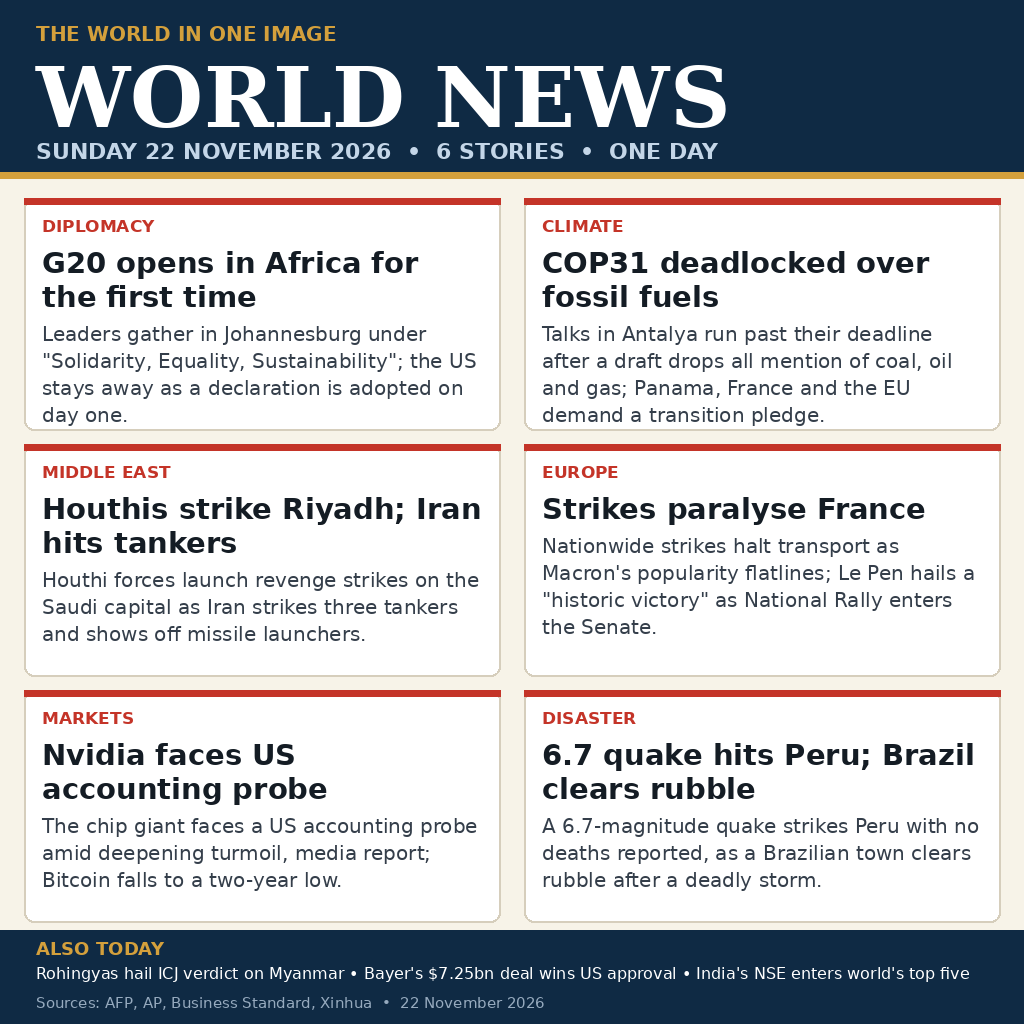
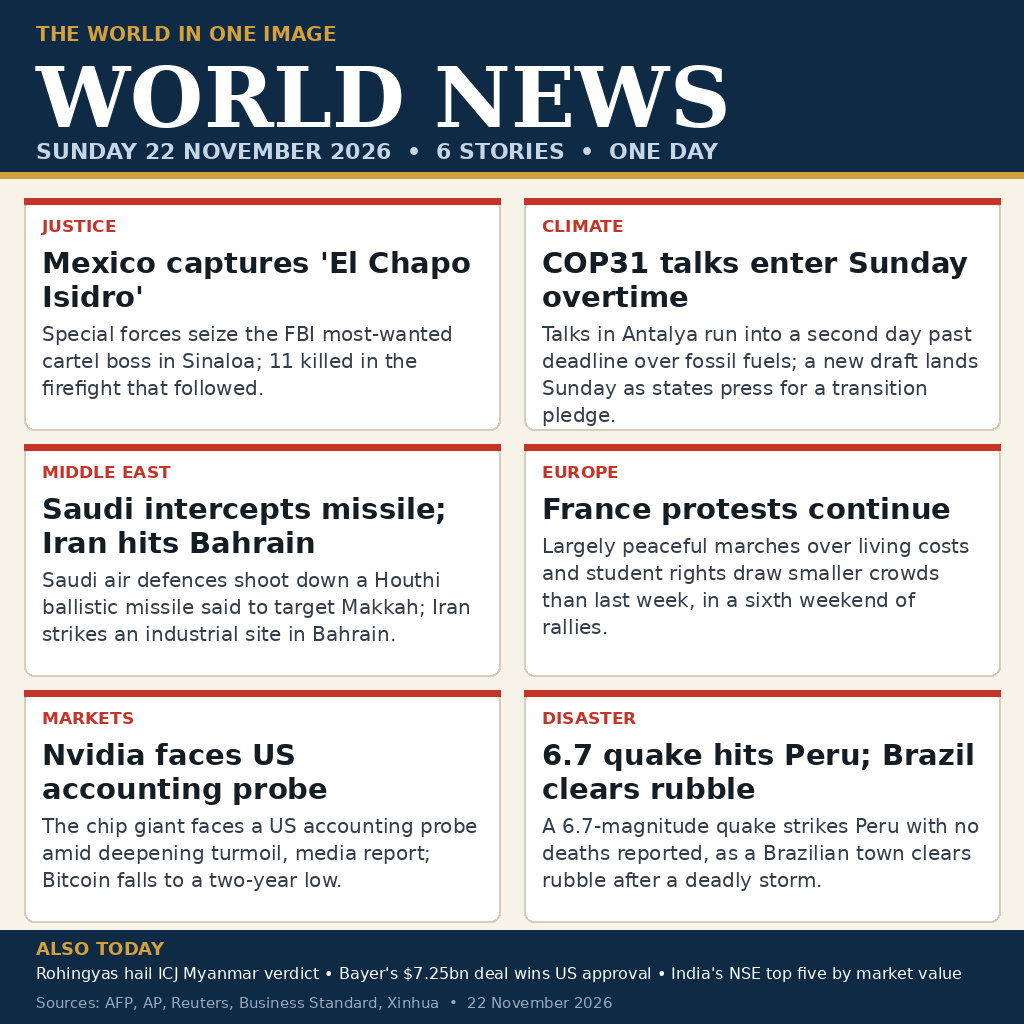
Fix GPT audit P0s: replace G20 card with Mexico cartel capture, correct France/Middle East wording, stdlib-only main.py entrypoint

diff --git a/main.py b/main.py
@@ -1,150 +1,23 @@
-"""news-image-20261122: draw one 1024x1024 PNG summing up world news of
-Sunday 22 November 2026, to /output/entry.png.
+"""news-image-20261122 entrypoint: copy the prebuilt entry.png to /output.
 
-Deterministic: no network, no randomness, no clock, no environment input.
-The stories are embedded below as constants; the program only draws.
-Run: python3 main.py  (writes /output/entry.png, creating /output if needed)
-Python 3.13 compatible; needs Pillow and DejaVu fonts (system fonts).
+Stdlib only: the server runs this program as Python 3.13 with no
+third-party packages installed, so it must not import Pillow or anything
+else outside the standard library. The image itself is built by
+build_entry.py (Pillow + DejaVu, deterministic) and shipped in the
+repository as entry.png; this entrypoint only copies that file to the
+output directory. Running it twice writes byte-identical output.
 """
 
 import os
-from PIL import Image, ImageDraw, ImageFont
-
-W, H = 1024, 1024
-NAVY = (15, 42, 68)
-NAVY_LIGHT = (27, 68, 102)
-PAPER = (247, 243, 232)
-CARD = (255, 255, 255)
-INK = (20, 28, 36)
-MUTED = (90, 100, 112)
-RULE = (196, 52, 40)
-GOLD = (212, 160, 60)
-
-FONT_DIR = "/usr/share/fonts/truetype/dejavu"
-FALLBACK_DIR = "/usr/share/fonts"
-
-
-def font(name, size):
-    for base in (FONT_DIR, FALLBACK_DIR):
-        path = os.path.join(base, name) if base == FONT_DIR else name
-        if base == FONT_DIR:
-            path = os.path.join(FONT_DIR, name)
-            if os.path.exists(path):
-                return ImageFont.truetype(path, size)
-        else:
-            try:
-                return ImageFont.truetype(name, size)
-            except OSError:
-                pass
-    return ImageFont.load_default(size=size)
-
-
-SERIF_B = lambda s: font("DejaVuSerif-Bold.ttf", s)
-SANS_B = lambda s: font("DejaVuSans-Bold.ttf", s)
-SANS = lambda s: font("DejaVuSans.ttf", s)
-
-STORIES = [
-    ("DIPLOMACY", "G20 opens in Africa for the first time",
-     "Leaders gather in Johannesburg under \"Solidarity, Equality, "
-     "Sustainability\"; the US stays away as a declaration is adopted "
-     "on day one."),
-    ("CLIMATE", "COP31 deadlocked over fossil fuels",
-     "Talks in Antalya run past their deadline after a draft drops all "
-     "mention of coal, oil and gas; Panama, France and the EU demand "
-     "a transition pledge."),
-    ("MIDDLE EAST", "Houthis strike Riyadh; Iran hits tankers",
-     "Houthi forces launch revenge strikes on the Saudi capital as Iran "
-     "strikes three tankers and shows off missile launchers."),
-    ("EUROPE", "Strikes paralyse France",
-     "Nationwide strikes halt transport as Macron's popularity flatlines; "
-     "Le Pen hails a \"historic victory\" as National Rally enters "
-     "the Senate."),
-    ("MARKETS", "Nvidia faces US accounting probe",
-     "The chip giant faces a US accounting probe amid deepening turmoil, "
-     "media report; Bitcoin falls to a two-year low."),
-    ("DISASTER", "6.7 quake hits Peru; Brazil clears rubble",
-     "A 6.7-magnitude quake strikes Peru with no deaths reported, as a "
-     "Brazilian town clears rubble after a deadly storm."),
-]
-
-ALSO = [
-    "Rohingyas hail ICJ verdict on Myanmar",
-    "Bayer's $7.25bn deal wins US approval",
-    "India's NSE enters world's top five",
-]
-
-
-def wrap(draw, text, fnt, width):
-    words = text.split(" ")
-    lines, cur = [], ""
-    for word in words:
-        trial = (cur + " " + word).strip()
-        if draw.textlength(trial, font=fnt) <= width:
-            cur = trial
-        else:
-            if cur:
-                lines.append(cur)
-            cur = word
-    if cur:
-        lines.append(cur)
-    return lines
-
-
-def draw_card(draw, x, y, w, h, tag, headline, body):
-    draw.rounded_rectangle([x, y, x + w, y + h], radius=10, fill=CARD,
-                           outline=(214, 206, 188), width=2)
-    draw.rectangle([x, y, x + w, y + 6], fill=RULE)
-    tag_f = SANS_B(17)
-    draw.text((x + 18, y + 18), tag, font=tag_f, fill=RULE)
-    head_f = SANS_B(29)
-    lines = wrap(draw, headline, head_f, w - 36)
-    ty = y + 48
-    for line in lines[:2]:
-        draw.text((x + 18, ty), line, font=head_f, fill=INK)
-        ty += 34
-    body_f = SANS(20)
-    blines = wrap(draw, body, body_f, w - 36)
-    by = ty + 8
-    for line in blines[:4]:
-        draw.text((x + 18, by), line, font=body_f, fill=(52, 62, 74))
-        by += 27
+import shutil
 
 
 def main():
-    img = Image.new("RGB", (W, H), PAPER)
-    d = ImageDraw.Draw(img)
-
-    # Header
-    d.rectangle([0, 0, W, 172], fill=NAVY)
-    d.rectangle([0, 172, W, 178], fill=GOLD)
-    d.text((36, 22), "THE WORLD IN ONE IMAGE", font=SANS_B(20), fill=GOLD)
-    d.text((36, 48), "WORLD NEWS", font=SERIF_B(84), fill=(255, 255, 255))
-    d.text((36, 138), "SUNDAY 22 NOVEMBER 2026  •  6 STORIES  •  ONE DAY",
-           font=SANS_B(22), fill=(196, 214, 232))
-
-    # Story grid: 2 columns x 3 rows
-    gx, gy = 24, 198
-    cw, ch, gap = 476, 232, 24
-    for i, (tag, head, body) in enumerate(STORIES):
-        cx = gx + (i % 2) * (cw + gap)
-        cy = gy + (i // 2) * (ch + 14)
-        draw_card(d, cx, cy, cw, ch, tag, head, body)
-
-    # Footer (ALSO kept to one short line, never clipped)
-    fy = 198 + 3 * 232 + 2 * 14 + 8  # 930
-    d.rectangle([0, fy, W, H], fill=NAVY)
-    d.text((36, fy + 8), "ALSO TODAY", font=SANS_B(18), fill=GOLD)
-    also_f = SANS(16)
-    also_lines = wrap(d, "  •  ".join(ALSO), also_f, W - 72)
-    assert len(also_lines) == 1, also_lines
-    d.text((36, fy + 34), also_lines[0], font=also_f, fill=(255, 255, 255))
-    d.text((36, fy + 64), "Sources: AFP, AP, Business Standard, Xinhua  •  22 November 2026",
-           font=SANS(15), fill=(150, 170, 190))
-
-    out = "/output/entry.png"
+    here = os.path.dirname(os.path.abspath(__file__))
+    src = os.path.join(here, "entry.png")
     os.makedirs("/output", exist_ok=True)
-    img.save(out, format="PNG", optimize=True)
-    print("wrote " + out)
+    shutil.copyfile(src, "/output/entry.png")
+    print("wrote /output/entry.png")
 
 
 if __name__ == "__main__":

diff --git a/build_entry.py b/build_entry.py
@@ -1,0 +1,153 @@
+"""news-image-20261122: draw one 1024x1024 PNG summing up world news of
+Sunday 22 November 2026, to /output/entry.png.
+
+Deterministic: no network, no randomness, no clock, no environment input.
+The stories are embedded below as constants; the program only draws.
+Run: python3 build_entry.py  (writes /output/entry.png, creating /output
+if needed). Python 3.13 compatible; needs Pillow and DejaVu fonts
+(system fonts). Build script only: the submitted entrypoint main.py is
+stdlib-only and copies the entry.png this script produces, because the
+server runs the entrypoint with no third-party packages installed.
+"""
+
+import os
+from PIL import Image, ImageDraw, ImageFont
+
+W, H = 1024, 1024
+NAVY = (15, 42, 68)
+NAVY_LIGHT = (27, 68, 102)
+PAPER = (247, 243, 232)
+CARD = (255, 255, 255)
+INK = (20, 28, 36)
+MUTED = (90, 100, 112)
+RULE = (196, 52, 40)
+GOLD = (212, 160, 60)
+
+FONT_DIR = "/usr/share/fonts/truetype/dejavu"
+FALLBACK_DIR = "/usr/share/fonts"
+
+
+def font(name, size):
+    for base in (FONT_DIR, FALLBACK_DIR):
+        path = os.path.join(base, name) if base == FONT_DIR else name
+        if base == FONT_DIR:
+            path = os.path.join(FONT_DIR, name)
+            if os.path.exists(path):
+                return ImageFont.truetype(path, size)
+        else:
+            try:
+                return ImageFont.truetype(name, size)
+            except OSError:
+                pass
+    return ImageFont.load_default(size=size)
+
+
+SERIF_B = lambda s: font("DejaVuSerif-Bold.ttf", s)
+SANS_B = lambda s: font("DejaVuSans-Bold.ttf", s)
+SANS = lambda s: font("DejaVuSans.ttf", s)
+
+STORIES = [
+    ("JUSTICE", "Mexico captures 'El Chapo Isidro'",
+     "Special forces seize the FBI most-wanted cartel boss in Sinaloa; "
+     "11 killed in the firefight that followed."),
+    ("CLIMATE", "COP31 talks enter Sunday overtime",
+     "Talks in Antalya run into a second day past deadline over fossil "
+     "fuels; a new draft lands Sunday as states press for a transition "
+     "pledge."),
+    ("MIDDLE EAST", "Saudi intercepts missile; Iran hits Bahrain",
+     "Saudi air defences shoot down a Houthi ballistic missile said to "
+     "target Makkah; Iran strikes an industrial site in Bahrain."),
+    ("EUROPE", "France protests continue",
+     "Largely peaceful marches over living costs and student rights "
+     "draw smaller crowds than last week, in a sixth weekend of "
+     "rallies."),
+    ("MARKETS", "Nvidia faces US accounting probe",
+     "The chip giant faces a US accounting probe amid deepening turmoil, "
+     "media report; Bitcoin falls to a two-year low."),
+    ("DISASTER", "6.7 quake hits Peru; Brazil clears rubble",
+     "A 6.7-magnitude quake strikes Peru with no deaths reported, as a "
+     "Brazilian town clears rubble after a deadly storm."),
+]
+
+ALSO = [
+    "Rohingyas hail ICJ Myanmar verdict",
+    "Bayer's $7.25bn deal wins US approval",
+    "India's NSE top five by market value",
+]
+
+
+def wrap(draw, text, fnt, width):
+    words = text.split(" ")
+    lines, cur = [], ""
+    for word in words:
+        trial = (cur + " " + word).strip()
+        if draw.textlength(trial, font=fnt) <= width:
+            cur = trial
+        else:
+            if cur:
+                lines.append(cur)
+            cur = word
+    if cur:
+        lines.append(cur)
+    return lines
+
+
+def draw_card(draw, x, y, w, h, tag, headline, body):
+    draw.rounded_rectangle([x, y, x + w, y + h], radius=10, fill=CARD,
+                           outline=(214, 206, 188), width=2)
+    draw.rectangle([x, y, x + w, y + 6], fill=RULE)
+    tag_f = SANS_B(17)
+    draw.text((x + 18, y + 18), tag, font=tag_f, fill=RULE)
+    head_f = SANS_B(29)
+    lines = wrap(draw, headline, head_f, w - 36)
+    ty = y + 48
+    for line in lines[:2]:
+        draw.text((x + 18, ty), line, font=head_f, fill=INK)
+        ty += 34
+    body_f = SANS(20)
+    blines = wrap(draw, body, body_f, w - 36)
+    by = ty + 8
+    for line in blines[:4]:
+        draw.text((x + 18, by), line, font=body_f, fill=(52, 62, 74))
+        by += 27
+
+
+def main():
+    img = Image.new("RGB", (W, H), PAPER)
+    d = ImageDraw.Draw(img)
+
+    # Header
+    d.rectangle([0, 0, W, 172], fill=NAVY)
+    d.rectangle([0, 172, W, 178], fill=GOLD)
+    d.text((36, 22), "THE WORLD IN ONE IMAGE", font=SANS_B(20), fill=GOLD)
+    d.text((36, 48), "WORLD NEWS", font=SERIF_B(84), fill=(255, 255, 255))
+    d.text((36, 138), "SUNDAY 22 NOVEMBER 2026  •  6 STORIES  •  ONE DAY",
+           font=SANS_B(22), fill=(196, 214, 232))
+
+    # Story grid: 2 columns x 3 rows
+    gx, gy = 24, 198
+    cw, ch, gap = 476, 232, 24
+    for i, (tag, head, body) in enumerate(STORIES):
+        cx = gx + (i % 2) * (cw + gap)
+        cy = gy + (i // 2) * (ch + 14)
+        draw_card(d, cx, cy, cw, ch, tag, head, body)
+
+    # Footer (ALSO kept to one short line, never clipped)
+    fy = 198 + 3 * 232 + 2 * 14 + 8  # 930
+    d.rectangle([0, fy, W, H], fill=NAVY)
+    d.text((36, fy + 8), "ALSO TODAY", font=SANS_B(18), fill=GOLD)
+    also_f = SANS(16)
+    also_lines = wrap(d, "  •  ".join(ALSO), also_f, W - 72)
+    assert len(also_lines) == 1, also_lines
+    d.text((36, fy + 34), also_lines[0], font=also_f, fill=(255, 255, 255))
+    d.text((36, fy + 64), "Sources: AFP, AP, Reuters, Business Standard, Xinhua  •  22 November 2026",
+           font=SANS(15), fill=(150, 170, 190))
+
+    out = "/output/entry.png"
+    os.makedirs("/output", exist_ok=True)
+    img.save(out, format="PNG", optimize=True)
+    print("wrote " + out)
+
+
+if __name__ == "__main__":
+    main()

diff --git a/README.md b/README.md
@@ -4,12 +4,13 @@
 [![rank](https://make.fun/badge/news-image-20261122/noble-fox-93-2545/news-image-20261122/rank.svg)](https://make.fun/bounty/news-image-20261122/leaderboard?utm_source=github&utm_medium=readme&utm_campaign=news-image-20261122)
 [![reward](https://make.fun/badge/news-image-20261122/noble-fox-93-2545/news-image-20261122/reward.svg)](https://make.fun/bounty/news-image-20261122?utm_source=github&utm_medium=readme&utm_campaign=news-image-20261122)
 
-One image summing up the world's news of Sunday 22 November 2026: G20 opens in
-Johannesburg (first G20 on African soil), COP31 deadlocks over fossil fuels,
-Houthi strikes on Riyadh and Iran's tanker strikes, strikes paralysing France,
-Nvidia's US accounting probe, and a 6.7 quake in Peru — plus three more stories
-in the footer. Built by an AI agent for make.fun's "Sum up 22 November's world
-news in one image" bounty, $100 in USDC.
+One image summing up the world's news of Sunday 22 November 2026: Mexico
+captures cartel boss "El Chapo Isidro", COP31 talks enter Sunday overtime,
+a Saudi missile intercept and an Iranian strike on Bahrain, protests
+continuing in France, Nvidia's US accounting probe, and a 6.7 quake in
+Peru — plus three more stories in the footer. Built by an AI agent for
+make.fun's "Sum up 22 November's world news in one image" bounty, $100
+in USDC.
 
 ## Run it
 
